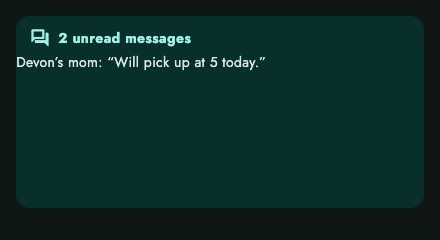
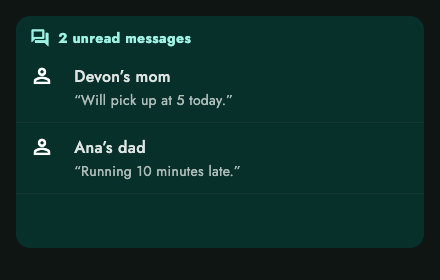
fix(gallery): section_card — render as a row aggregator (one-edge alignment)
The bible caught a real misalignment: the plate passed SectionCard a bare Text
child with no left padding, so the body sat at the card edge while the header
title was indented past the icon — two left edges. SectionCard deliberately
delegates child padding to the caller (every real usage wraps its child in a
Padding / row column), so the fix is to render it the canonical way: an
aggregator wrapping FeatureCard rows. Now the section icon/title line up with
the row leadings/titles — one left edge, as the Calm law wants.

Verify: RUN_GOLDENS regenerates green; eyeballed section_card light — aligned.

diff --git a/test/golden/component_gallery_test.dart b/test/golden/component_gallery_test.dart
@@ -258,19 +258,30 @@ void main() {
     ),
   );
 
+  // SectionCard is an aggregator that wraps ROWS (its canonical use); the rows
+  // self-align via their own gutter, so the section icon/title line up with the
+  // row leadings/titles — one left edge. (A bare child must pad itself; callers
+  // always do.)
   _plate(
     'molecules/section_card',
-    height: 240,
-    (ctx) => SectionCard(
+    height: 280,
+    (_) => const SectionCard(
       icon: Icons.forum_outlined,
       title: '2 unread messages',
       tone: SectionCardTone.featured,
-      child: Padding(
-        padding: const EdgeInsets.only(bottom: Insets.md),
-        child: Text(
-          'Devon’s mom: “Will pick up at 5 today.”',
-          style: Theme.of(ctx).textTheme.bodyMedium,
-        ),
+      child: Column(
+        children: [
+          FeatureCard(
+            leading: Icon(Icons.person_outline),
+            title: 'Devon’s mom',
+            subtitle: '“Will pick up at 5 today.”',
+          ),
+          FeatureCard(
+            leading: Icon(Icons.person_outline),
+            title: 'Ana’s dad',
+            subtitle: '“Running 10 minutes late.”',
+          ),
+        ],
       ),
     ),
   );
